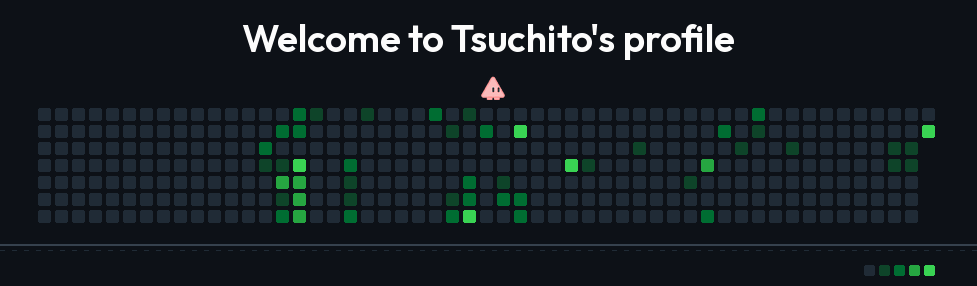
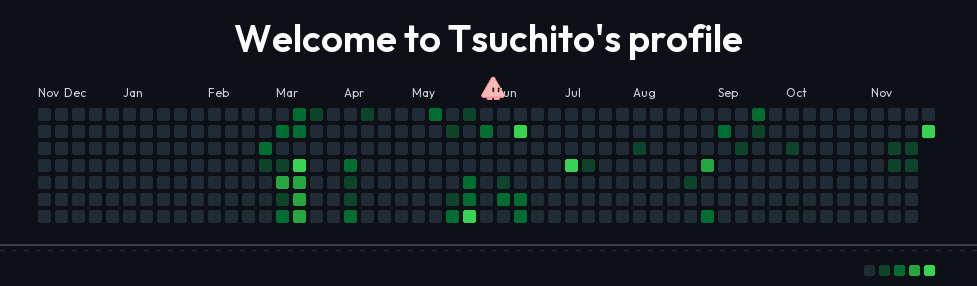
Label rolling contribution calendar months to match GitHub

diff --git a/scripts/contribution_runner.py b/scripts/contribution_runner.py
@@ -54,6 +54,28 @@ def layout(days):
     return cells, max(c[0] for c in cells) + 1
 
 
+def month_labels(days):
+    """Label week columns in the same Sunday-first rolling calendar."""
+    first = date.fromisoformat(days[0]['date'])
+    sunday = first - timedelta(days=(first.weekday() + 1) % 7)
+    names = ('Jan', 'Feb', 'Mar', 'Apr', 'May', 'Jun',
+             'Jul', 'Aug', 'Sep', 'Oct', 'Nov', 'Dec')
+    labels = []
+    previous = None
+    for day in days:
+        current = date.fromisoformat(day['date'])
+        key = (current.year, current.month)
+        if key != previous:
+            col = (current - sunday).days // 7
+            # A month near the end of the first week can share a column.
+            if labels and col == labels[-1][0]:
+                labels[-1] = (col, names[current.month - 1])
+            else:
+                labels.append((col, names[current.month - 1]))
+            previous = key
+    return labels
+
+
 class Route(list):
     """Waypoints with explicit bank targets, distinguishing leaps from falls."""
     def __init__(self, points, jump_targets):
@@ -177,6 +199,13 @@ def render(days, user, output):
     left, top, right, bottom = d.textbbox((0, 0), title, font=font)
     d.text(((width - (right - left)) / 2 - left, 24 - top),
            title, font=font, fill='white')
+    month_font = ImageFont.truetype(str(ROOT / 'assets/fonts/Outfit.ttf'), 12)
+    month_font.set_variation_by_axes([400])
+    label_end = 0
+    for col, label in month_labels(days):
+        label_x = max(LEFT + col * STEP, label_end + 5)
+        d.text((label_x, TOP - 23), label, font=month_font, fill='#c9d1d9')
+        label_end = label_x + d.textlength(label, font=month_font)
     for col, row, level in cells:
         x, y = LEFT + col * STEP, TOP + row * STEP
         d.rounded_rectangle((x, y, x + CELL - 1, y + CELL - 1), radius=2, fill=COLORS[level])

diff --git a/tests/test_runner.py b/tests/test_runner.py
@@ -1,8 +1,13 @@
 import unittest
-from scripts.contribution_runner import CalendarParser, layout, route, motion, FLOOR, TOP, STEP
+from scripts.contribution_runner import CalendarParser, layout, month_labels, route, motion, FLOOR, TOP, STEP
 
 
 class RunnerTests(unittest.TestCase):
+    def test_month_labels_align_across_year_boundary(self):
+        days = [{'date': d, 'level': 0} for d in
+                ['2025-11-23', '2025-12-01', '2026-01-01', '2026-11-23']]
+        self.assertEqual(month_labels(days), [(0, 'Nov'), (1, 'Dec'), (5, 'Jan'), (52, 'Nov')])
+
     def test_calendar_attributes_and_duplicates(self):
         p = CalendarParser()
         p.feed('<td data-level="3" data-date="2026-11-23"></td><rect data-date="2026-11-23" data-level="3"/>')

diff --git a/RUNNER.md b/RUNNER.md
@@ -3,6 +3,7 @@
 README先頭のGIFは、提供されたRun0〜3・Jump0〜2のPNGを使った自動再生アニメーションです。
 Outfitの白文字見出しを同じGIF内に描き、キャラクターを最後に合成することで、重なる場合はキャラクターが手前に表示されます。
 緑のマスは実際のGitHubの草です。各週の最上部の緑マスを足場にし、同じ高さでは走り、段差ではジャンプします。
+表示期間はGitHub標準カレンダーの直近1年をそのまま使用し、日曜始まりの週列に月名を表示します。固定年のカレンダーではありません。
 低い区間が横1〜3列続き、その先に区間内より高い緑の足場がある場合は、落差の深さによらずジャンプで向こう岸まで渡ります。3マス以上低い区間が連続する場合は、横幅3列の制限を外し、その深い区間を抜けた最初の緑の足場まで渡ります。向こう岸がない場合は降ります。
 下降先に平地が続く場合は、最大2列奥を着地点にします。
 通常の下降は足場の端まで歩いてから、上に跳ねず加速しながら落下します。空中ではJump2を使います。向こう岸を越えるジャンプとは経路情報で区別します。
